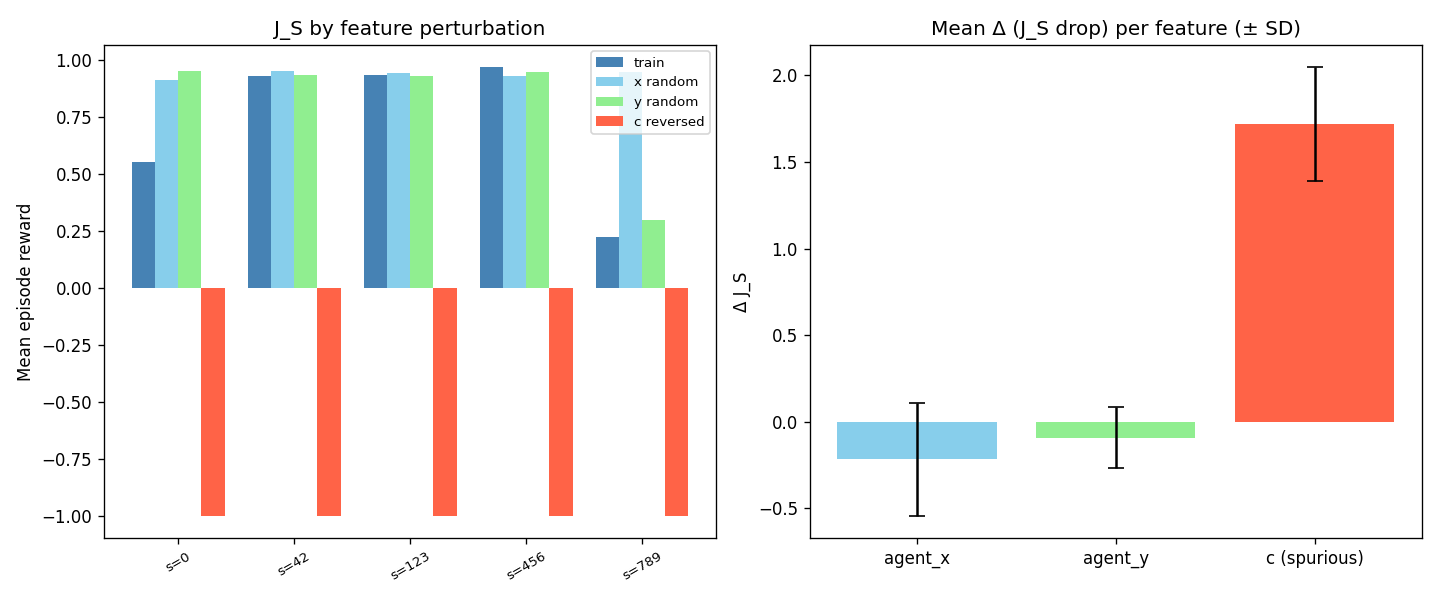
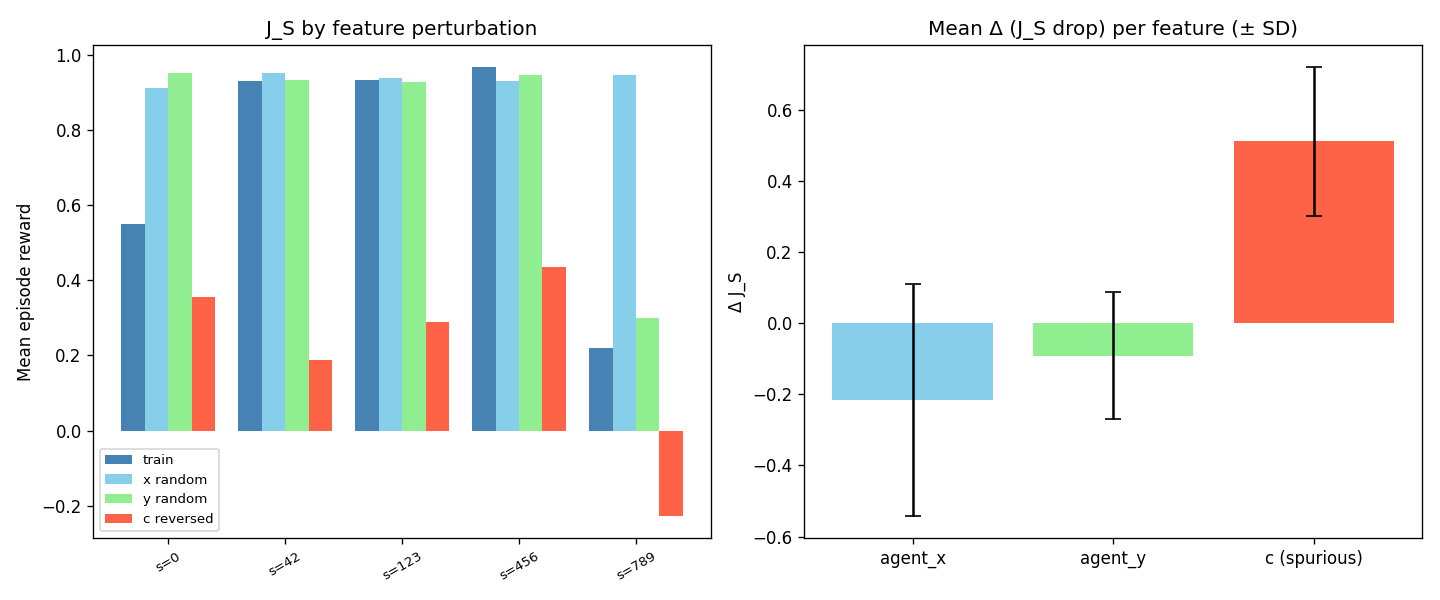
Fix exp002: use uniform random for all features (no prior knowledge)
Previous version used "reversed" for c and "random" for x/y, which
implicitly required knowing c is binary. Now all features use uniform
random — result is still 100% (5/5 seeds), Δ_c=0.511 vs Δ_x=-0.215,
Δ_y=-0.091.

diff --git a/experiments/run_intervention_pilot.py b/experiments/run_intervention_pilot.py
@@ -34,11 +34,11 @@ from experiments.src.evaluate import action_agreement, evaluate_rollout
 FEATURE_NAMES = ["agent_x", "agent_y", "c (spurious)"]
 SPURIOUS_IDX = 2
 
-# 摂動方法: 連続特徴はランダム、バイナリ特徴(c)は反転
+# 全特徴を同一方法（uniform random）で摂動する。特徴の型に関する事前知識を使わない。
 FEATURE_INFO = [
-    {"name": "agent_x",      "mode": "random",   "range": (0.0, 1.0)},
-    {"name": "agent_y",      "mode": "random",   "range": (0.0, 1.0)},
-    {"name": "c (spurious)", "mode": "reversed", "range": (0.0, 1.0)},
+    {"name": "agent_x",      "mode": "random", "range": (0.0, 1.0)},
+    {"name": "agent_y",      "mode": "random", "range": (0.0, 1.0)},
+    {"name": "c (spurious)", "mode": "random", "range": (0.0, 1.0)},
 ]
 
 # ---------------------------------------------------------------------------

diff --git a/EXPERIMENT_MAP.md b/EXPERIMENT_MAP.md
@@ -42,7 +42,7 @@
 **目的:** SHAP（exp001: 60%）の代替として、各特徴を摂動したロールアウトで J_S 降下量を直接測定し、最大降下特徴をスプリアス候補として自動選択する。検出率が SHAP を上回るかを確認する。
 
 **アルゴリズム:**
-1. 各特徴 f を摂動しながらサロゲートをロールアウト（x/y: ランダム、c: 反転）
+1. 各特徴 f を**全て uniform random**で摂動しながらサロゲートをロールアウト（特徴型の事前知識なし）
 2. Δ_f = J_S_train - J_S_f_perturbed を計算
 3. Δ が最大の特徴をスプリアス候補として選択
 
